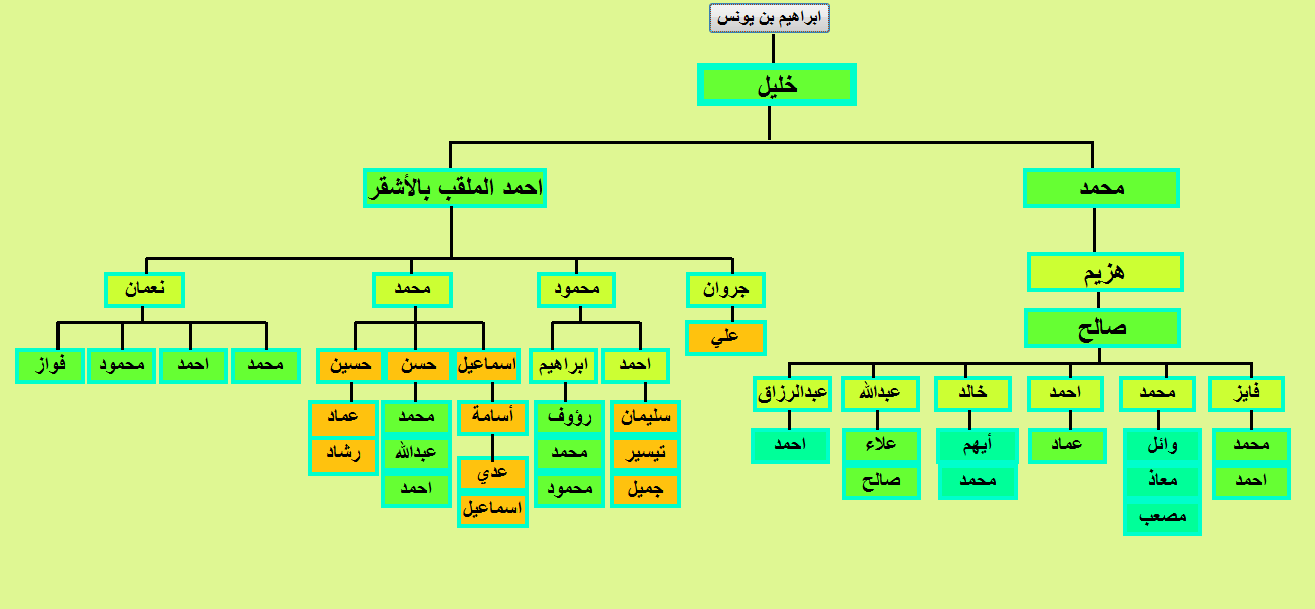
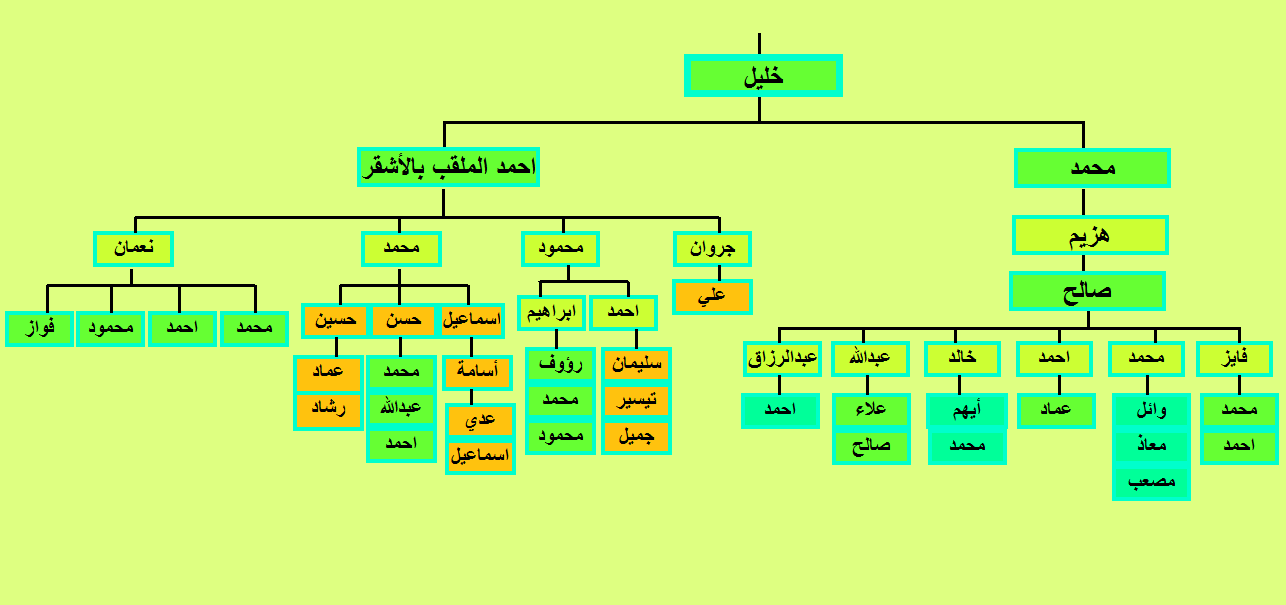
update

Changed region(s): [[0.0, 0.0, 0.9953, 0.8926]]

diff --git a/khaleel-elnoman.html b/khaleel-elnoman.html
@@ -6,15 +6,15 @@
 <title>النسب العمري</title>
 <script type="text/javascript">
 <!--
-function FP_preloadImgs() {//v1.0
- var d=document,a=arguments; if(!d.FP_imgs) d.FP_imgs=new Array();
- for(var i=0; i<a.length; i++) { d.FP_imgs[i]=new Image; d.FP_imgs[i].src=a[i]; }
-}
-
 function FP_swapImg() {//v1.0
  var doc=document,args=arguments,elm,n; doc.$imgSwaps=new Array(); for(n=2; n<args.length;
  n+=2) { elm=FP_getObjectByID(args[n]); if(elm) { doc.$imgSwaps[doc.$imgSwaps.length]=elm;
  elm.$src=elm.src; elm.src=args[n+1]; } }
+}
+
+function FP_preloadImgs() {//v1.0
+ var d=document,a=arguments; if(!d.FP_imgs) d.FP_imgs=new Array();
+ for(var i=0; i<a.length; i++) { d.FP_imgs[i]=new Image; d.FP_imgs[i].src=a[i]; }
 }
 
 function FP_getObjectByID(id,o) {//v1.0
@@ -30,16 +30,18 @@ function FP_getObjectByID(id,o) {//v1.0
 </script>
 </head>
 
-<body style="background-color: #DFF793" onload="FP_preloadImgs(/*url*/'button10E.gif',/*url*/'button10F.gif',/*url*/'button174.gif',/*url*/'button175.gif')">
+<body onload="FP_preloadImgs(/*url*/'button325.jpg',/*url*/'button326.jpg',/*url*/'button327.jpg',/*url*/'button328.jpg',/*url*/'buttonF13.jpg',/*url*/'button329.jpg')" style="background-color: #DEFF81">
 
-<div id="layer7" style="position: absolute; width: 168px; height: 47px; z-index: 2; left: 706px; top: 15px">
+<div id="layer1" style="position: absolute; width: 120px; height: 33px; z-index: 1; left: 712px; top: 26px">
 	<a href="Isa-El-Nohman.html">
-	<img id="img7" alt="ابراهيم بن يونس" height="42" onmousedown="FP_swapImg(1,0,/*id*/'img7',/*url*/'button10F.gif')" onmouseout="FP_swapImg(0,0,/*id*/'img7',/*url*/'button10D.gif')" onmouseover="FP_swapImg(1,0,/*id*/'img7',/*url*/'button10E.gif')" onmouseup="FP_swapImg(0,0,/*id*/'img7',/*url*/'button10E.gif')" src="button10D.gif" style="border: 0" width="126" /><!-- MSComment="ibutton" fp-style="fp-btn: Metal Rectangle 5; fp-font-style: Bold; fp-transparent: 1; fp-proportional: 0" fp-title="ابراهيم بن يونس" --></a></div>
-
-<div id="layer8" style="position: absolute; width: 100px; height: 28px; z-index: 3; left: 17px; top: 17px">
-	<a href="index.html">
-	<img id="img2" alt="الصفحة الرئيسية" height="24" onmousedown="FP_swapImg(1,0,/*id*/'img2',/*url*/'button175.gif')" onmouseout="FP_swapImg(0,0,/*id*/'img2',/*url*/'button176.gif')" onmouseover="FP_swapImg(1,0,/*id*/'img2',/*url*/'button174.gif')" onmouseup="FP_swapImg(0,0,/*id*/'img2',/*url*/'button174.gif')" src="button176.gif" style="border: 0" width="120" /><!-- MSComment="ibutton" fp-style="fp-btn: Metal Capsule 3; fp-font-style: Bold; fp-font-size: 8; fp-transparent: 1" fp-title="الصفحة الرئيسية" --></a></div>
-<img alt="" height="611" src="khaleel-elnoman.PNG" width="1297" />
+	<img id="img1" alt="ابراهيم بن يونس" height="24" onmousedown="FP_swapImg(1,0,/*id*/'img1',/*url*/'button326.jpg')" onmouseout="FP_swapImg(0,0,/*id*/'img1',/*url*/'button330.jpg')" onmouseover="FP_swapImg(1,0,/*id*/'img1',/*url*/'button325.jpg')" onmouseup="FP_swapImg(0,0,/*id*/'img1',/*url*/'button325.jpg')" src="button330.jpg" style="border: 0" width="120" /><!-- MSComment="ibutton" fp-style="fp-btn: Metal Capsule 6; fp-font-style: Bold" fp-title="ابراهيم بن يونس" --></a></div>
+<div id="layer2" style="position: absolute; width: 93px; z-index: 2; left: 687px; top: 325px">
+	<a href="Ali-Eljerwan-Sons.html">
+	<img id="img2" alt="الأحفاد" height="14" onmousedown="FP_swapImg(1,0,/*id*/'img2',/*url*/'button328.jpg')" onmouseout="FP_swapImg(0,0,/*id*/'img2',/*url*/'button331.jpg')" onmouseover="FP_swapImg(1,0,/*id*/'img2',/*url*/'button327.jpg')" onmouseup="FP_swapImg(0,0,/*id*/'img2',/*url*/'button327.jpg')" src="button331.jpg" style="border: 0" width="70" /><!-- MSComment="ibutton" fp-style="fp-btn: Metal Capsule 6; fp-font-style: Bold" fp-title="الأحفاد" --></a></div>
+<div id="layer3" style="position: absolute; width: 72px; height: 18px; z-index: 3; left: 227px; top: 355px">
+	<a href="Mohammad-Elnoman-Sons.html">
+	<img id="img3" alt="الاحفاد" height="14" onmousedown="FP_swapImg(1,0,/*id*/'img3',/*url*/'button329.jpg')" onmouseout="FP_swapImg(0,0,/*id*/'img3',/*url*/'buttonE8.jpg')" onmouseover="FP_swapImg(1,0,/*id*/'img3',/*url*/'buttonF13.jpg')" onmouseup="FP_swapImg(0,0,/*id*/'img3',/*url*/'buttonF13.jpg')" src="buttonE8.jpg" style="border: 0" width="70" /><!-- MSComment="ibutton" fp-style="fp-btn: Metal Capsule 6; fp-font-style: Bold" fp-title="الاحفاد" --></a></div>
+<img alt="" height="605" src="Khaleel-elnoman.png" width="1286" />
 
 </body>
 

diff --git a/Mohammad-Elnoman-Sons.html b/Mohammad-Elnoman-Sons.html
@@ -1,0 +1,42 @@
+<!DOCTYPE html PUBLIC "-//W3C//DTD XHTML 1.0 Transitional//EN" "http://www.w3.org/TR/xhtml1/DTD/xhtml1-transitional.dtd">
+<html xmlns="http://www.w3.org/1999/xhtml">
+
+<head>
+<meta content="text/html; charset=utf-8" http-equiv="Content-Type" />
+<title>النسب العمري</title>
+<script type="text/javascript">
+<!--
+function FP_swapImg() {//v1.0
+ var doc=document,args=arguments,elm,n; doc.$imgSwaps=new Array(); for(n=2; n<args.length;
+ n+=2) { elm=FP_getObjectByID(args[n]); if(elm) { doc.$imgSwaps[doc.$imgSwaps.length]=elm;
+ elm.$src=elm.src; elm.src=args[n+1]; } }
+}
+
+function FP_preloadImgs() {//v1.0
+ var d=document,a=arguments; if(!d.FP_imgs) d.FP_imgs=new Array();
+ for(var i=0; i<a.length; i++) { d.FP_imgs[i]=new Image; d.FP_imgs[i].src=a[i]; }
+}
+
+function FP_getObjectByID(id,o) {//v1.0
+ var c,el,els,f,m,n; if(!o)o=document; if(o.getElementById) el=o.getElementById(id);
+ else if(o.layers) c=o.layers; else if(o.all) el=o.all[id]; if(el) return el;
+ if(o.id==id || o.name==id) return o; if(o.childNodes) c=o.childNodes; if(c)
+ for(n=0; n<c.length; n++) { el=FP_getObjectByID(id,c[n]); if(el) return el; }
+ f=o.forms; if(f) for(n=0; n<f.length; n++) { els=f[n].elements;
+ for(m=0; m<els.length; m++){ el=FP_getObjectByID(id,els[n]); if(el) return el; } }
+ return null;
+}
+// -->
+</script>
+</head>
+
+<body onload="FP_preloadImgs(/*url*/'button319.jpg',/*url*/'button320.jpg')" style="background-color: #DEFF81">
+
+<div id="layer1" style="position: absolute; width: 120px; height: 34px; z-index: 1; left: 7px; top: 9px">
+	<a href="index.html">
+	<img id="img1" alt="الصفحة الرئيسية" height="23" onmousedown="FP_swapImg(1,0,/*id*/'img1',/*url*/'button320.jpg')" onmouseout="FP_swapImg(0,0,/*id*/'img1',/*url*/'button321.jpg')" onmouseover="FP_swapImg(1,0,/*id*/'img1',/*url*/'button319.jpg')" onmouseup="FP_swapImg(0,0,/*id*/'img1',/*url*/'button319.jpg')" src="button321.jpg" style="border: 0" width="113" /><!-- MSComment="ibutton" fp-style="fp-btn: Metal Capsule 3; fp-font-style: Bold" fp-title="الصفحة الرئيسية" --></a></div>
+<img alt="" height="605" src="Mohammad-Elnoman-Sons-Sons.png" width="1283" />
+
+</body>
+
+</html>

diff --git a/Ali-Eljerwan-Sons.html b/Ali-Eljerwan-Sons.html
@@ -1,0 +1,42 @@
+<!DOCTYPE html PUBLIC "-//W3C//DTD XHTML 1.0 Transitional//EN" "http://www.w3.org/TR/xhtml1/DTD/xhtml1-transitional.dtd">
+<html xmlns="http://www.w3.org/1999/xhtml">
+
+<head>
+<meta content="text/html; charset=utf-8" http-equiv="Content-Type" />
+<title>النسب العمري</title>
+<script type="text/javascript">
+<!--
+function FP_swapImg() {//v1.0
+ var doc=document,args=arguments,elm,n; doc.$imgSwaps=new Array(); for(n=2; n<args.length;
+ n+=2) { elm=FP_getObjectByID(args[n]); if(elm) { doc.$imgSwaps[doc.$imgSwaps.length]=elm;
+ elm.$src=elm.src; elm.src=args[n+1]; } }
+}
+
+function FP_preloadImgs() {//v1.0
+ var d=document,a=arguments; if(!d.FP_imgs) d.FP_imgs=new Array();
+ for(var i=0; i<a.length; i++) { d.FP_imgs[i]=new Image; d.FP_imgs[i].src=a[i]; }
+}
+
+function FP_getObjectByID(id,o) {//v1.0
+ var c,el,els,f,m,n; if(!o)o=document; if(o.getElementById) el=o.getElementById(id);
+ else if(o.layers) c=o.layers; else if(o.all) el=o.all[id]; if(el) return el;
+ if(o.id==id || o.name==id) return o; if(o.childNodes) c=o.childNodes; if(c)
+ for(n=0; n<c.length; n++) { el=FP_getObjectByID(id,c[n]); if(el) return el; }
+ f=o.forms; if(f) for(n=0; n<f.length; n++) { els=f[n].elements;
+ for(m=0; m<els.length; m++){ el=FP_getObjectByID(id,els[n]); if(el) return el; } }
+ return null;
+}
+// -->
+</script>
+</head>
+
+<body onload="FP_preloadImgs(/*url*/'button322.jpg',/*url*/'button323.jpg')" style="background-color: #DEFF81">
+
+<div id="layer1" style="position: absolute; width: 114px; height: 33px; z-index: 1; left: 13px; top: 9px">
+	<a href="index.html">
+	<img id="img1" alt="الصفحة الرئيسية" height="23" onmousedown="FP_swapImg(1,0,/*id*/'img1',/*url*/'button323.jpg')" onmouseout="FP_swapImg(0,0,/*id*/'img1',/*url*/'button324.jpg')" onmouseover="FP_swapImg(1,0,/*id*/'img1',/*url*/'button322.jpg')" onmouseup="FP_swapImg(0,0,/*id*/'img1',/*url*/'button322.jpg')" src="button324.jpg" style="border: 0" width="114" /><!-- MSComment="ibutton" fp-style="fp-btn: Metal Capsule 3; fp-font-style: Bold" fp-title="الصفحة الرئيسية" --></a></div>
+<img alt="" height="606" src="Ali-Eljerwan-Sons.png" width="1285" />
+
+</body>
+
+</html>
